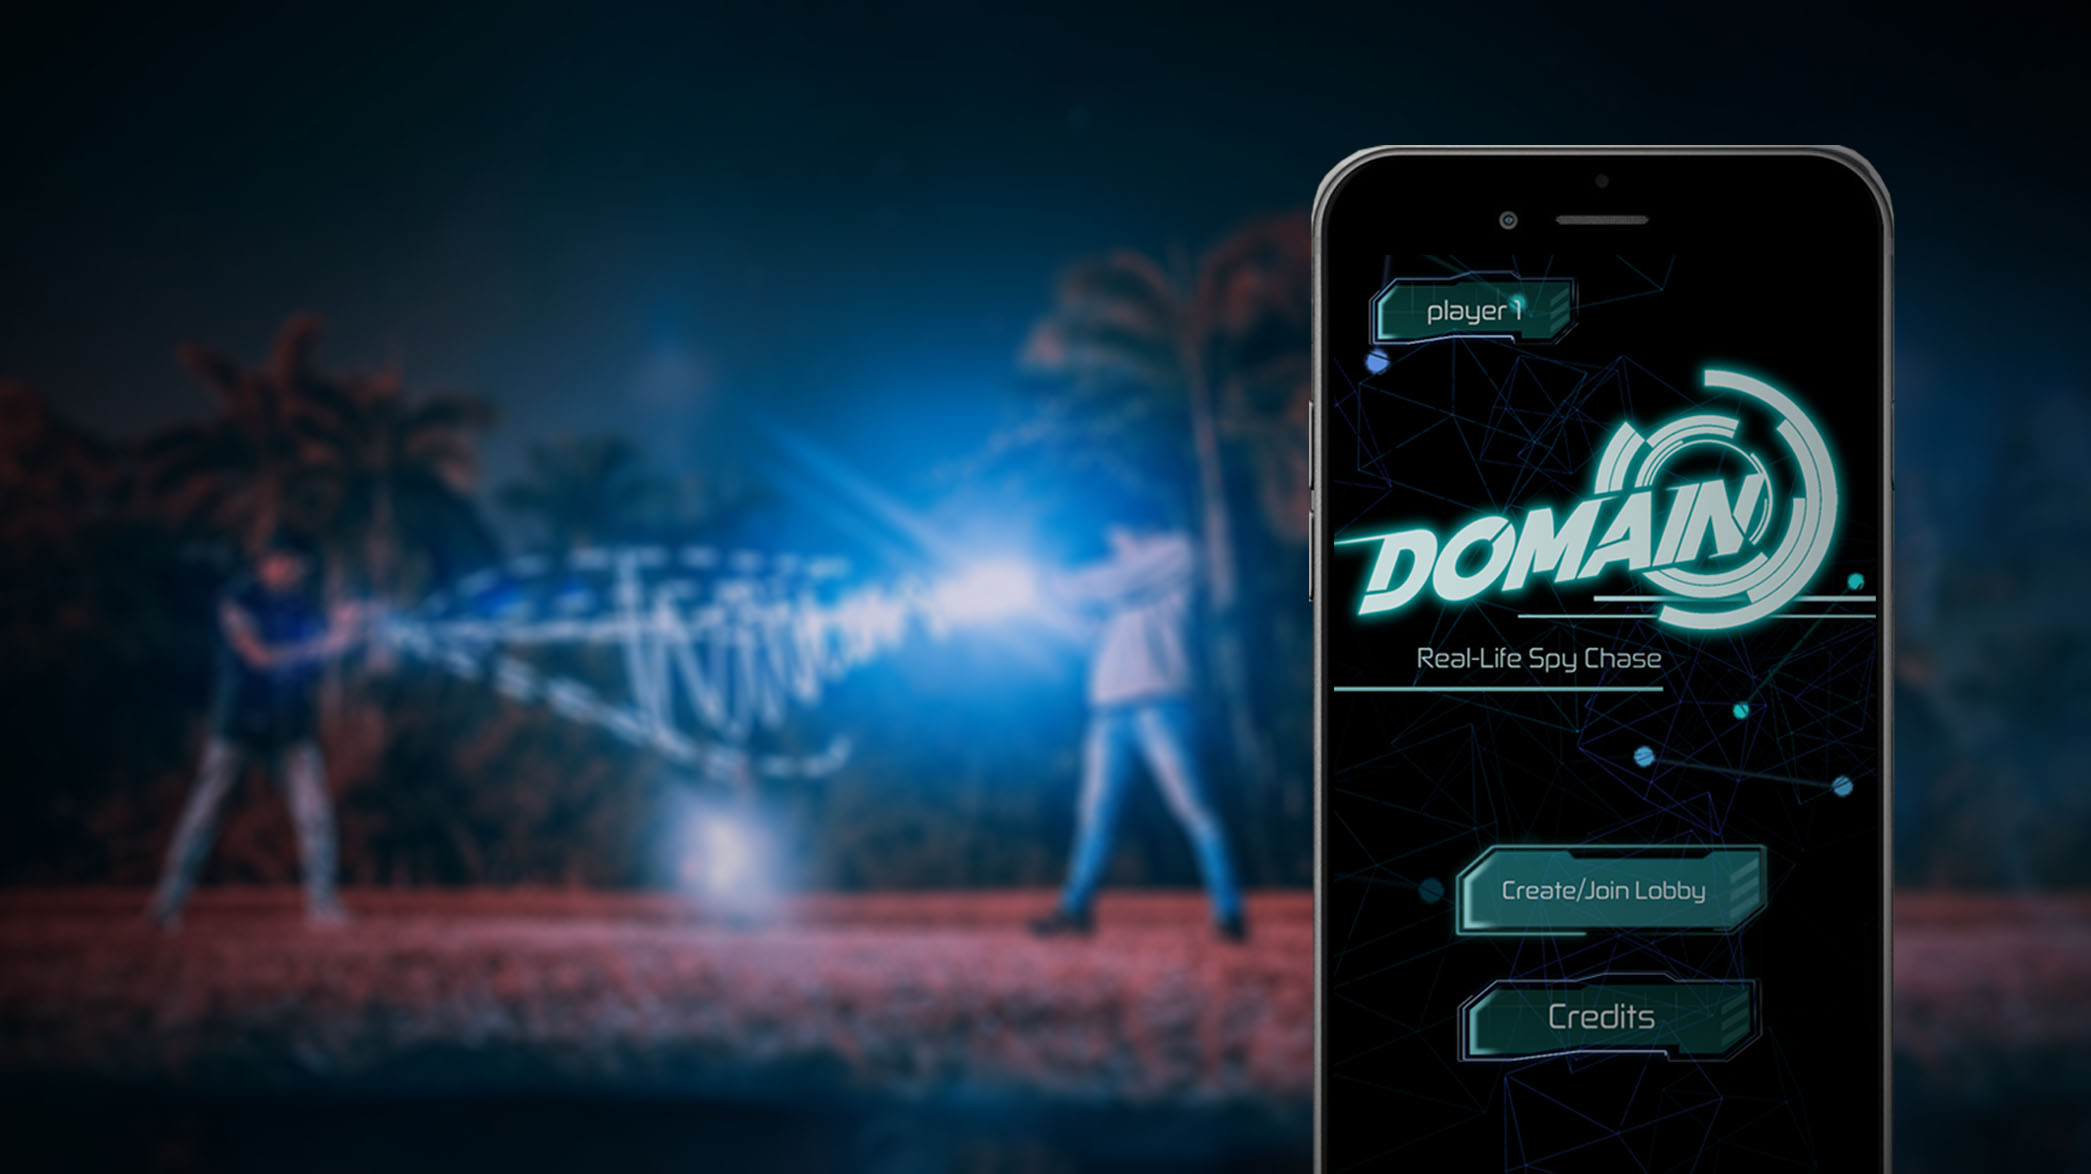
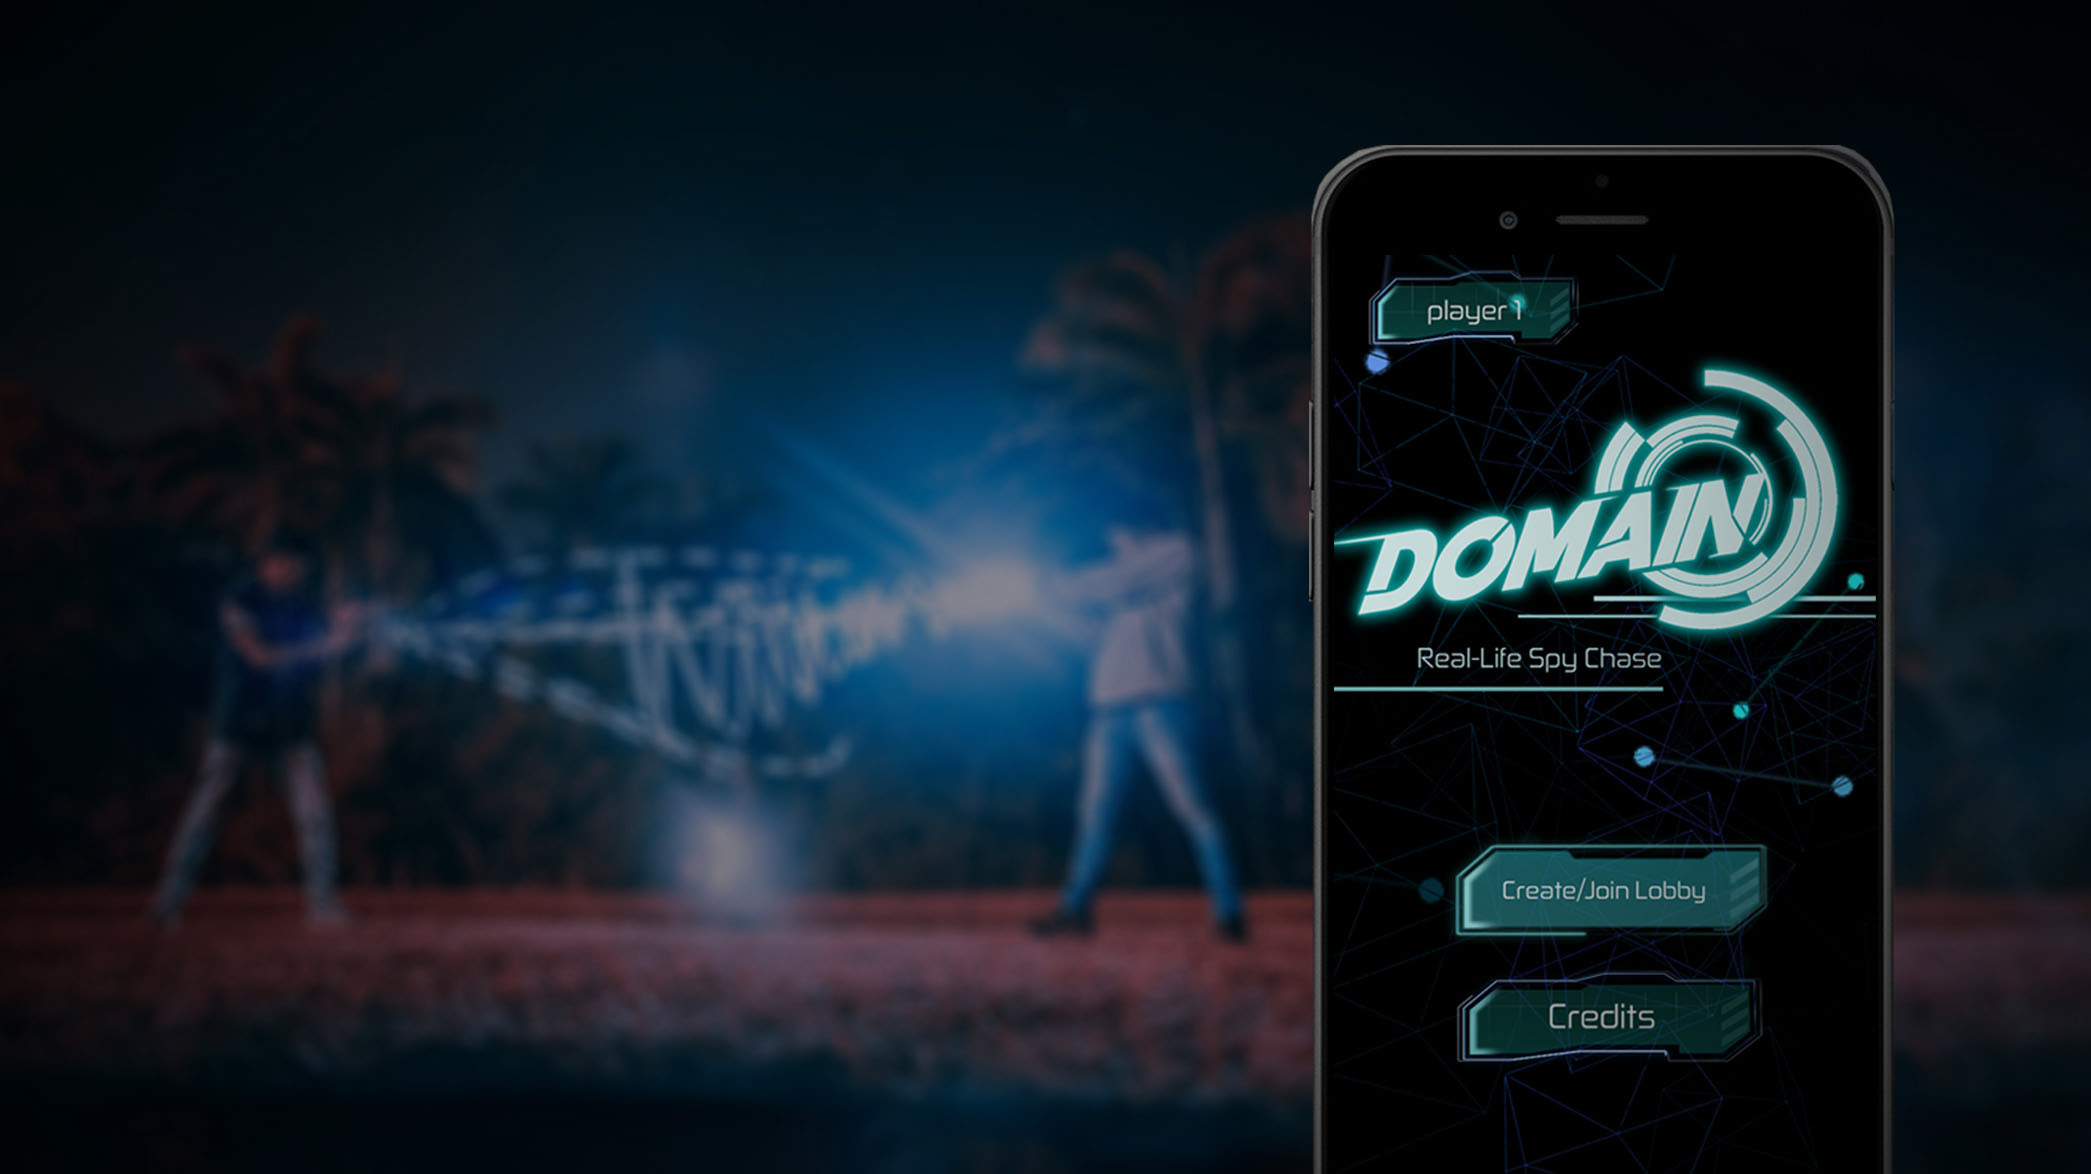
homepage update

diff --git a/index.html b/index.html
@@ -41,25 +41,32 @@
 				text-align: center;
 			}
 			
-		}
+
 		</style>
 	<style>
 		#example2 {
 	height: 850px;
   border: 2px solid black;
-  background: url(/images/domain_images/iphone2.jpg);
+  background: url(/images/domain_images/iphone2.png	);
   background-repeat: no-repeat;
   background-size: cover;
 }
 		#example2 > .posts > * {
 				width: 50%;
+
+			}
+			#example2 > .posts {
+				width: 50%;
+				position: relative;
+				top: 20%;
+				left: 56%;
 			}
 
 			#example2 > .posts > * {
-	padding:  8rem 0rem 0rem 57rem;
 	width: 100%;
 	color: #FFFFFF;
 	font-family: inherit;
+	padding: 0 4rem 0 0rem;
 			}
 
 			#example2 > .posts > article {
@@ -70,7 +77,6 @@
 				text-align: center;
 			}
 			
-		}
 		
     </style>
 	</head>
@@ -80,55 +86,69 @@
 <script src="https://cdnjs.cloudflare.com/ajax/libs/popper.js/1.12.9/umd/popper.min.js" integrity="sha384-ApNbgh9B+Y1QKtv3Rn7W3mgPxhU9K/ScQsAP7hUibX39j7fakFPskvXusvfa0b4Q" crossorigin="anonymous"></script>
     <script src="js/popper.min.js"></script>
     <script src="https://maxcdn.bootstrapcdn.com/bootstrap/4.0.0/js/bootstrap.min.js" integrity="sha384-JZR6Spejh4U02d8jOt6vLEHfe/JQGiRRSQQxSfFWpi1MquVdAyjUar5+76PVCmYl" crossorigin="anonymous"></script>
-    <!-- Wrapper -->
+	<!-- Wrapper -->
+<div class="allwrapper">
 <div id="wrapper" class="fade-in">
 
 				<!-- Intro -->
-					<div id="intro">
-						<br>
-						<br>
-						<img src="images/domain_images/Domain logo Final.png" width="1000" height="500">
-						<br>
+				<div id="intro">
+					<!--<img src="images/domain_images/Domain logo Finalcolor.png" width="800" height="600">
+						
 					  <p>Where games meet real life in a spychase.</p>
 						<ul class="actions">
 							<li><a href="#header" class="button icon solo fa-arrow-down scrolly">Continue</a></li>
-						</ul>
-					</div>
+						</ul> -->	
+					</div>  
 
-				<!-- Header -->
+				<!-- Header
 					<header id="header">
 						<a href="https://testflight.apple.com/join/EFxIR6V6" class="logo">Download</a>
-					</header>
+					</header> -->
 
 				<!-- Nav -->
-			  <nav id="nav">
+			<nav id="nav">
 						<ul class="links">
 							<li class="active"><a href="index.html">The Game</a></li>
-							<li><a href="events.html">Events</a></li>
+							<!--- <li><a href="events.html">Events</a></li>
 							<li><a href="the_journey.html">The Journey</a></li>
-							<li><a href="the_team.html">The Team</a></li>
+							<li><a href="the_team.html">The Team</a></li> -->
 						</ul>
 						<ul class="icons">
 						
 							<li><a href="fb.me/reallifespychase" class="icon fa-facebook"><span class="label">Facebook</span></a></li>
 							<li><a href="https://www.youtube.com/channel/UCugPxXKmx4zbO04BZxKoSLw" class="icon fa-youtube"><span class="label">Youtube</span></a></li>
 						</ul>
-  </nav>
+  			</nav>
 
 				<!-- Main -->
 			  <div id="main">
 						
 <!-- Post -->
 					  <section class="post">
-								<header class="major">
-									<h1>The Game</h1>
-								</header>
-						<div class="image main">
+							
+									<h1>Domain (Hacker)</h1>
+
+						<div class="poster">
+							<img src="images/domain_images/Recent_Assets/Domain_illustration_2-1.jpg" alt="">
+							<div class="mainarticle">
+								<p>Lorem ipsum dolor sit amet, consectetur adipiscing elit. Cras condimentum lectus 
+									id porttitor auctor. Quisque convallis nulla in nulla volutpat, id venenatis ligula 
+									imperdiet. Proin id felis ac nisl semper congue quis ac diam. Vestibulum ante ipsum 
+									primis in faucibus orci luctus et ultrices posuere cubilia curae; Fusce dui libero, 
+									mattis non lacus quis, ultrices dapibus velit. Etiam ultrices semper bibendum. 
+									Praesent cursus risus velit, eget sagittis lectus laoreet vitae. Quisque bibendum 
+									iaculis ornare. Aenean vitae imperdiet ipsum, vel consectetur diam. Vivamus 
+									fermentum diam et nisl pulvinar commodo. Phasellus euismod vitae nibh eget accumsan. 
+									In aliquam posuere placerat.</p>
+							</div>
+							<iframe width="840" height="472.5" src="https://www.youtube.com/embed/FfyHMg0P_iQ" frameborder="0" allow="accelerometer; autoplay; encrypted-media; gyroscope; picture-in-picture" allowfullscreen></iframe>
+						</div>
+						<!--<div class="image main">
 									<center>
-                                 	 	<iframe width="1120" height="630" src="https://www.youtube.com/embed/rBv7gYHiGvg" frameborder="0" allow="accelerometer; autoplay; encrypted-media; gyroscope; picture-in-picture" allowfullscreen></iframe>
+                                 	 	<iframe width="840" height="472.5" src="https://www.youtube.com/embed/FfyHMg0P_iQ" frameborder="0" allow="accelerometer; autoplay; encrypted-media; gyroscope; picture-in-picture" allowfullscreen></iframe>
                                 	</center>
 							
-				  		</div>
+				  		</div> -->
 						  
 					  </section>
 						
@@ -136,7 +156,7 @@
 							  <header class="major">
 								
 							  </header>
-							  <h3 style="font-size: 4rem; color: #D3D3D3; font-weight: 900;">Become an Agent</h3>
+							  <h3 style="font-size: 3rem; color: #D3D3D3; font-weight: 900;">Become an Agent</h3>
 							  <article class="posts">
 								<p>Video games meets real life in Domain (formerly Hacker), a secret-identity team-based game of tag. Turn the world around you into a fast-paced field game. Find your team, discover your enemies, and attack them through stealth, speed, and deception. Show your friends that you are the slyest secret agent.</p>
 								
@@ -147,7 +167,7 @@
 							  <header class="major">
 								
 	  </header>
-							  <h3 style="font-size: 4rem; color: #D3D3D3; font-weight: 900; float:right;">hack the planet</h3>
+							  <h3 style="font-size: 3rem; color: #D3D3D3; font-weight: 900; float:right;">hack the planet</h3>
 
 							  <article class="posts">
 								  
@@ -166,7 +186,7 @@
 				 </section>
 						
 					  <!-- Footer -->
-  <footer>
+  	<footer>
 								<h3>Access Info </h3>
 								<p>This is a 6 player game. In order to play, you need to move around and play with 3-5 other players. You must make sure that you have secure internet connection. If there are common connection issues in the area, turn off Wi-Fi and use cellular data. Please play at a safe location such as an enclosed college campus. Do not cross roads or streets.</p>
 		  </footer>
@@ -222,8 +242,7 @@
 						<ul><li>&copy; Domain</li></ul>
 					</div>
 
-</div>
-
+				</div>
 		<!-- Scripts -->
 <script src="assets/js/jquery.min.js"></script>
 <script src="assets/js/jquery.scrollex.min.js"></script>

diff --git a/assets/css/main.css b/assets/css/main.css
@@ -99,7 +99,7 @@ input, select, textarea {
 	}
 
 	body {
-		background-color: #1e252d;
+		background-color: #000000;
 	}
 
 		body.is-preload *, body.is-preload *:before, body.is-preload *:after {
@@ -198,7 +198,7 @@ input, select, textarea {
 	h1 {
 		font-size: 4rem;
 		line-height: 1.1;
-		margin: 0 0 2rem 0;
+		margin: -2rem 0 2rem 0;
 	}
 
 	h2 {
@@ -2612,8 +2612,9 @@ input, select, textarea {
 			}
 
 		.image.main {
-			display: block;
-			margin: 4rem 0;
+			display: inline-block;
+			position: relative;
+			margin: 4rem auto;
 			width: 100%;
 		}
 
@@ -2924,7 +2925,7 @@ input, select, textarea {
 		}
 
 		header.major {
-			margin: 0 0 4rem 0;
+			margin: -1rem 0 3rem 0;
 			text-align: center;
 		}
 
@@ -3189,7 +3190,10 @@ input, select, textarea {
 	}
 
 /* Wrapper */
-
+	.allwrapper {
+		width: 84%;
+		margin: 0 auto;
+	}
 	#wrapper {
 		-moz-transition: opacity 0.5s ease;
 		-webkit-transition: opacity 0.5s ease;
@@ -3206,8 +3210,7 @@ input, select, textarea {
 			left: 0;
 			width: 100%;
 			height: 100%;
-			background-color: #212931;
-			background-image: url("../../images/overlay.png"), linear-gradient(0deg, rgba(0, 0, 0, 0.1), rgba(0, 0, 0, 0.1)), url("../../images/domain_images/hacker_promotion2 (2).jpg");
+			background-color: #000000;
 			background-size: auto,								auto,														100% auto;
 			background-position: center,								center,														top center;
 			background-repeat: repeat,								no-repeat,													no-repeat;
@@ -3231,7 +3234,7 @@ input, select, textarea {
 			-webkit-transition-delay: 0.75s;
 			-ms-transition-delay: 0.75s;
 			transition-delay: 0.75s;
-			background: #1e252d;
+			background: #000000;
 			content: '';
 			display: block;
 			height: 100%;
@@ -3258,7 +3261,7 @@ input, select, textarea {
 
 	#intro {
 		color: #ffffff;
-		padding: 8rem 4rem 6rem 4rem ;
+	/*	padding: 2rem 4rem 6rem 4rem ; */
 		-moz-align-items: center;
 		-webkit-align-items: center;
 		-ms-align-items: center;
@@ -3283,7 +3286,8 @@ input, select, textarea {
 		cursor: default;
 		text-align: center;
 		z-index: 1;
-		min-height: 100vh;
+	 /*	min-height: 100vh; */
+		min-height: 25vh;
 	}
 
 		#intro input, #intro select, #intro textarea {
@@ -3740,7 +3744,7 @@ input, select, textarea {
 		#main > * {
 			padding: 4rem 4rem 2rem 4rem ;
 			border-top: solid 2px #eeeeee;
-			margin: 0;''
+			margin: 0;
 		}
 
 			#main > *:first-child {
@@ -3750,19 +3754,28 @@ input, select, textarea {
 		#main > footer {
 			text-align: center;
 		}
-
+		.poster img {
+			width: 29%;
+			height: auto;
+			position: relative;
+			display: inline-block;
+		}
 		#main > .post {
-			padding: 4rem 8rem 2rem 8rem ;
+			padding: 4rem 4.2rem 2rem 4.2rem ;
 		}
 
 			#main > .post header.major > .date {
 				margin-top: -2rem;
 			}
-
+			#main > .post > h1{
+				font-size: 3rem;
+				line-height: 1;
+				margin: -1rem 0 3rem 0;
+			}
 			#main > .post header.major > h1, #main > .post header.major h2 {
 				font-size: 4rem;
-				line-height: 1.1;
-				margin: 0 0 2rem 0;
+				line-height: 1;
+				margin: 0 0 1rem 0;
 			}
 
 			#main > .post.featured {
@@ -4366,7 +4379,7 @@ input, select, textarea {
 		line-height: 1.5;
 		text-align: center;
 		text-transform: uppercase;
-		margin: 4rem auto 8rem auto;
+		margin: 4rem auto 4rem auto;
 		width: calc(100% - 4rem);
 		max-width: 72rem;
 		z-index: 2;
@@ -4650,4 +4663,17 @@ input, select, textarea {
 			visibility: visible;
 		}
 
+	}
+
+	iframe {
+		margin: 0 2rem 0 6rem;
+	}
+
+	.mainarticle {
+		display: inline-block;
+		width: 70%;
+	}
+	.mainarticle p {
+		display: inline-block;
+		padding: 0 0 0 4rem;
 	}
